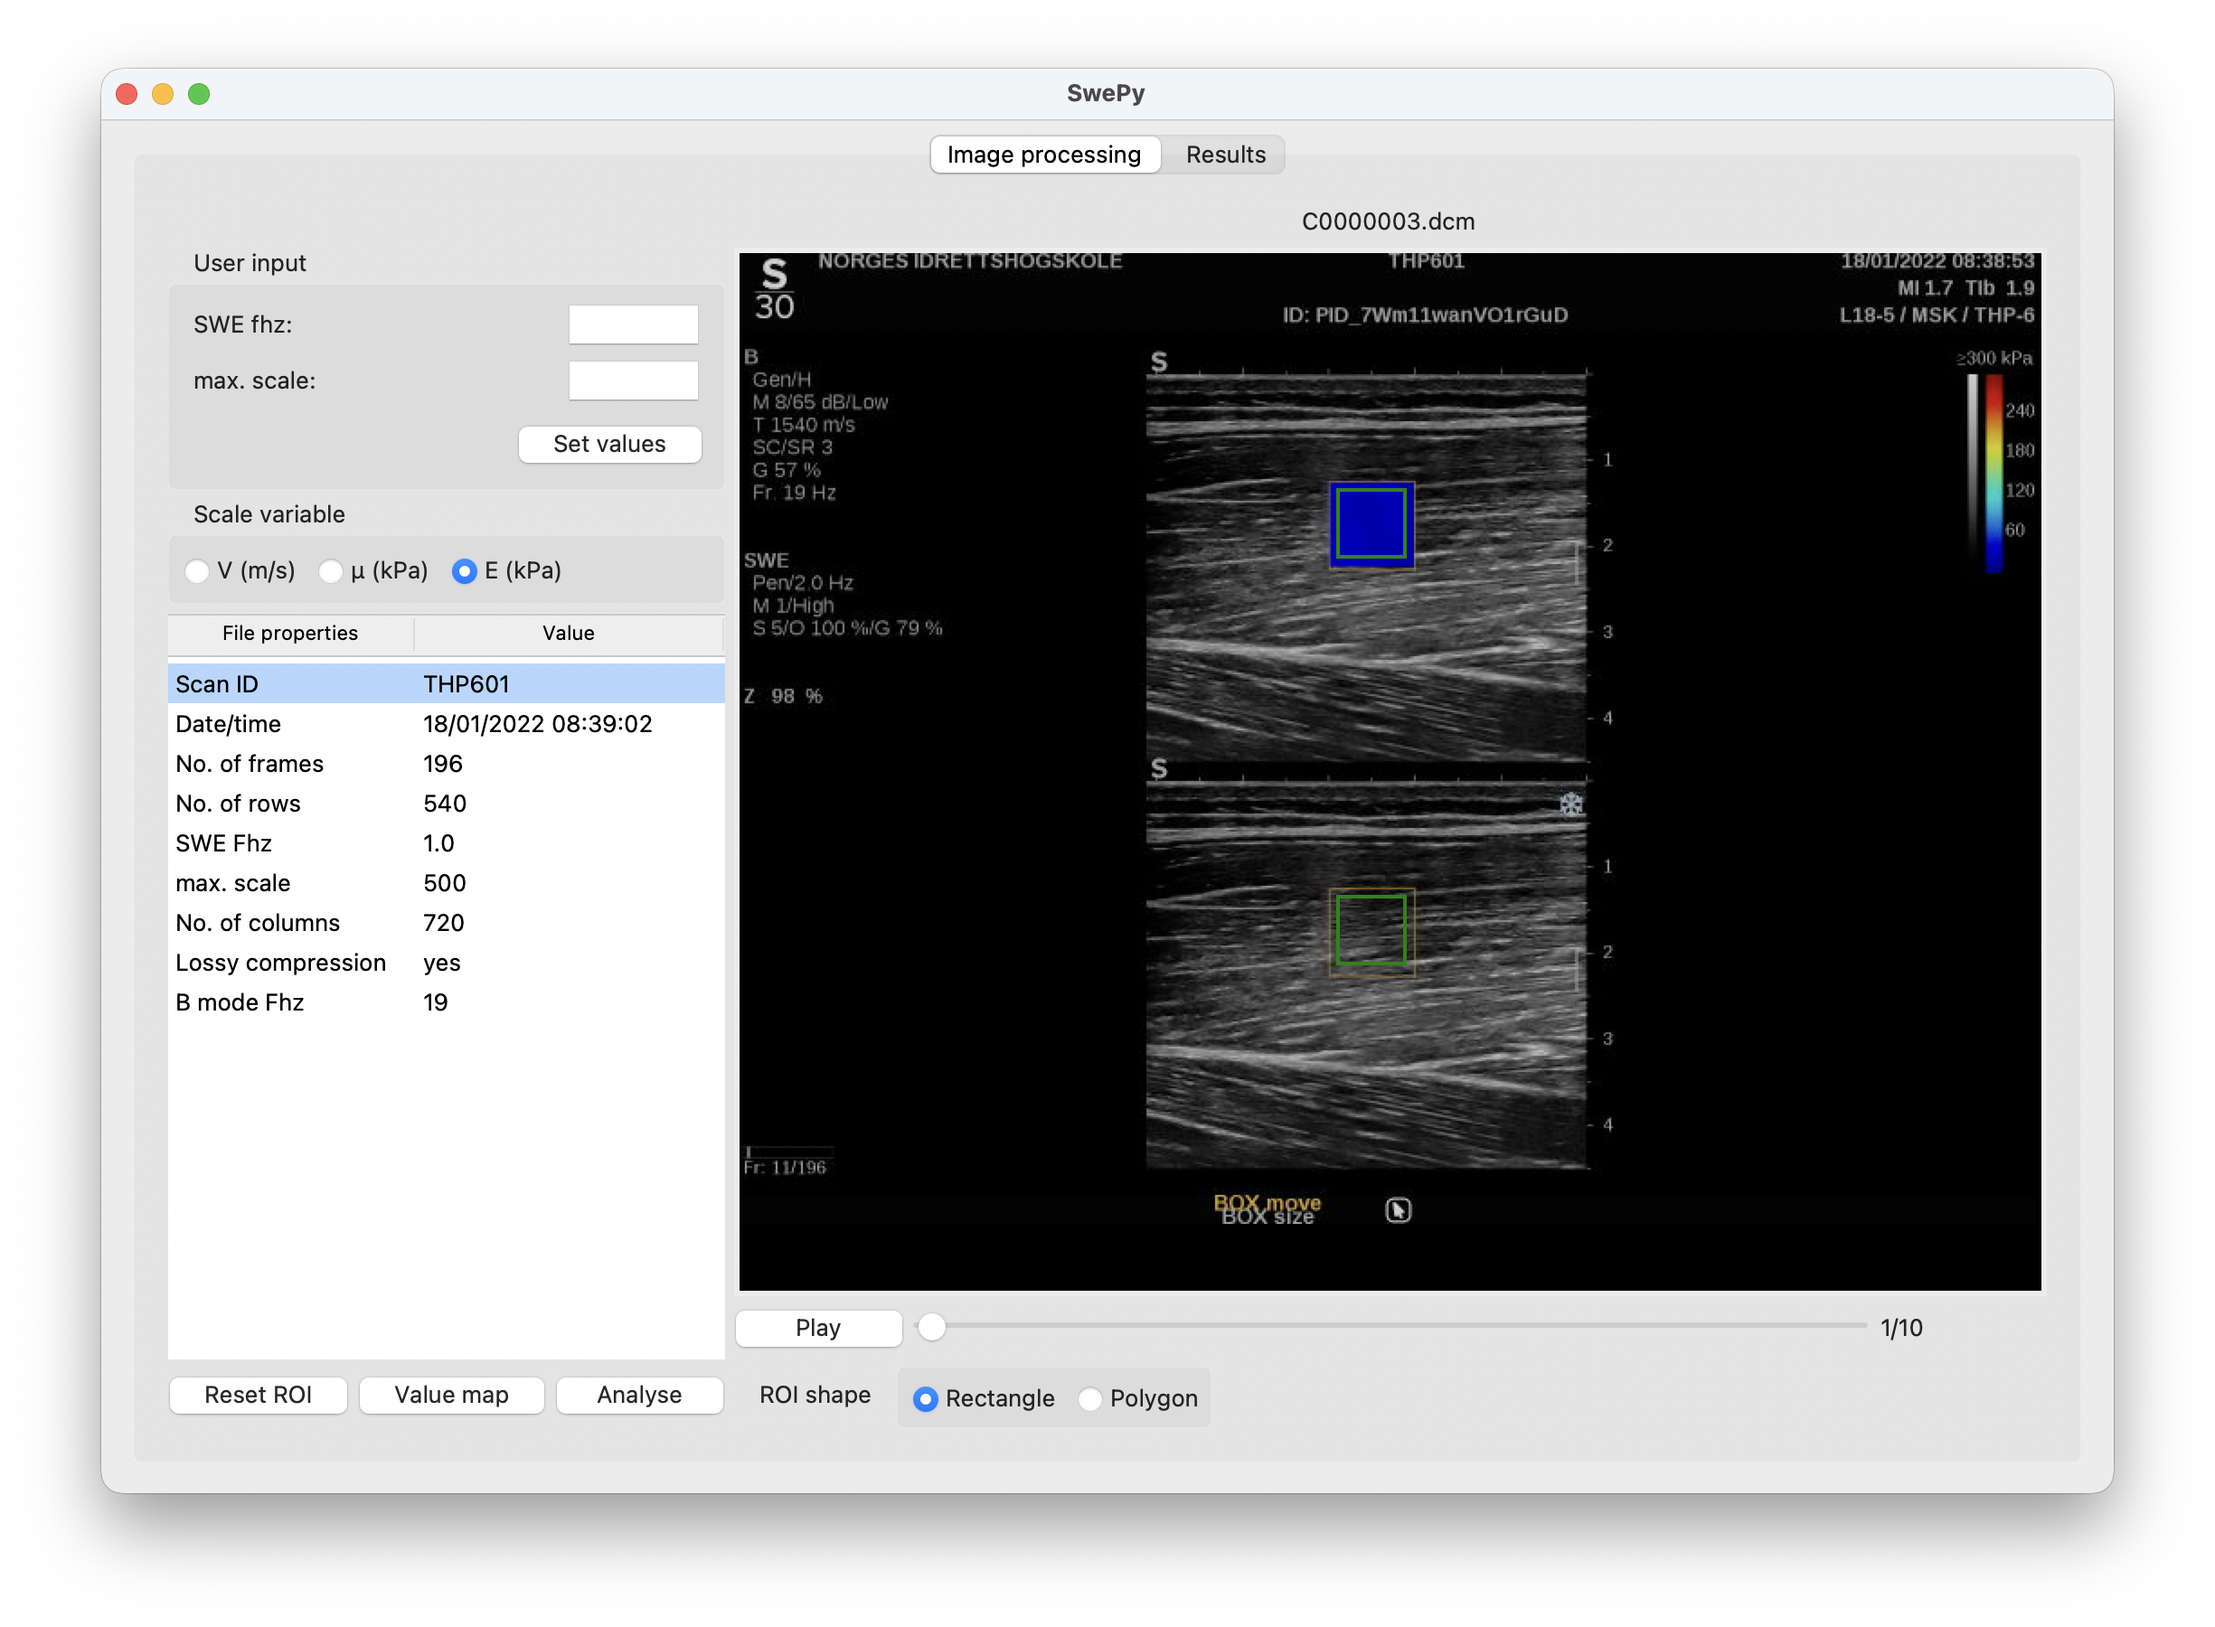
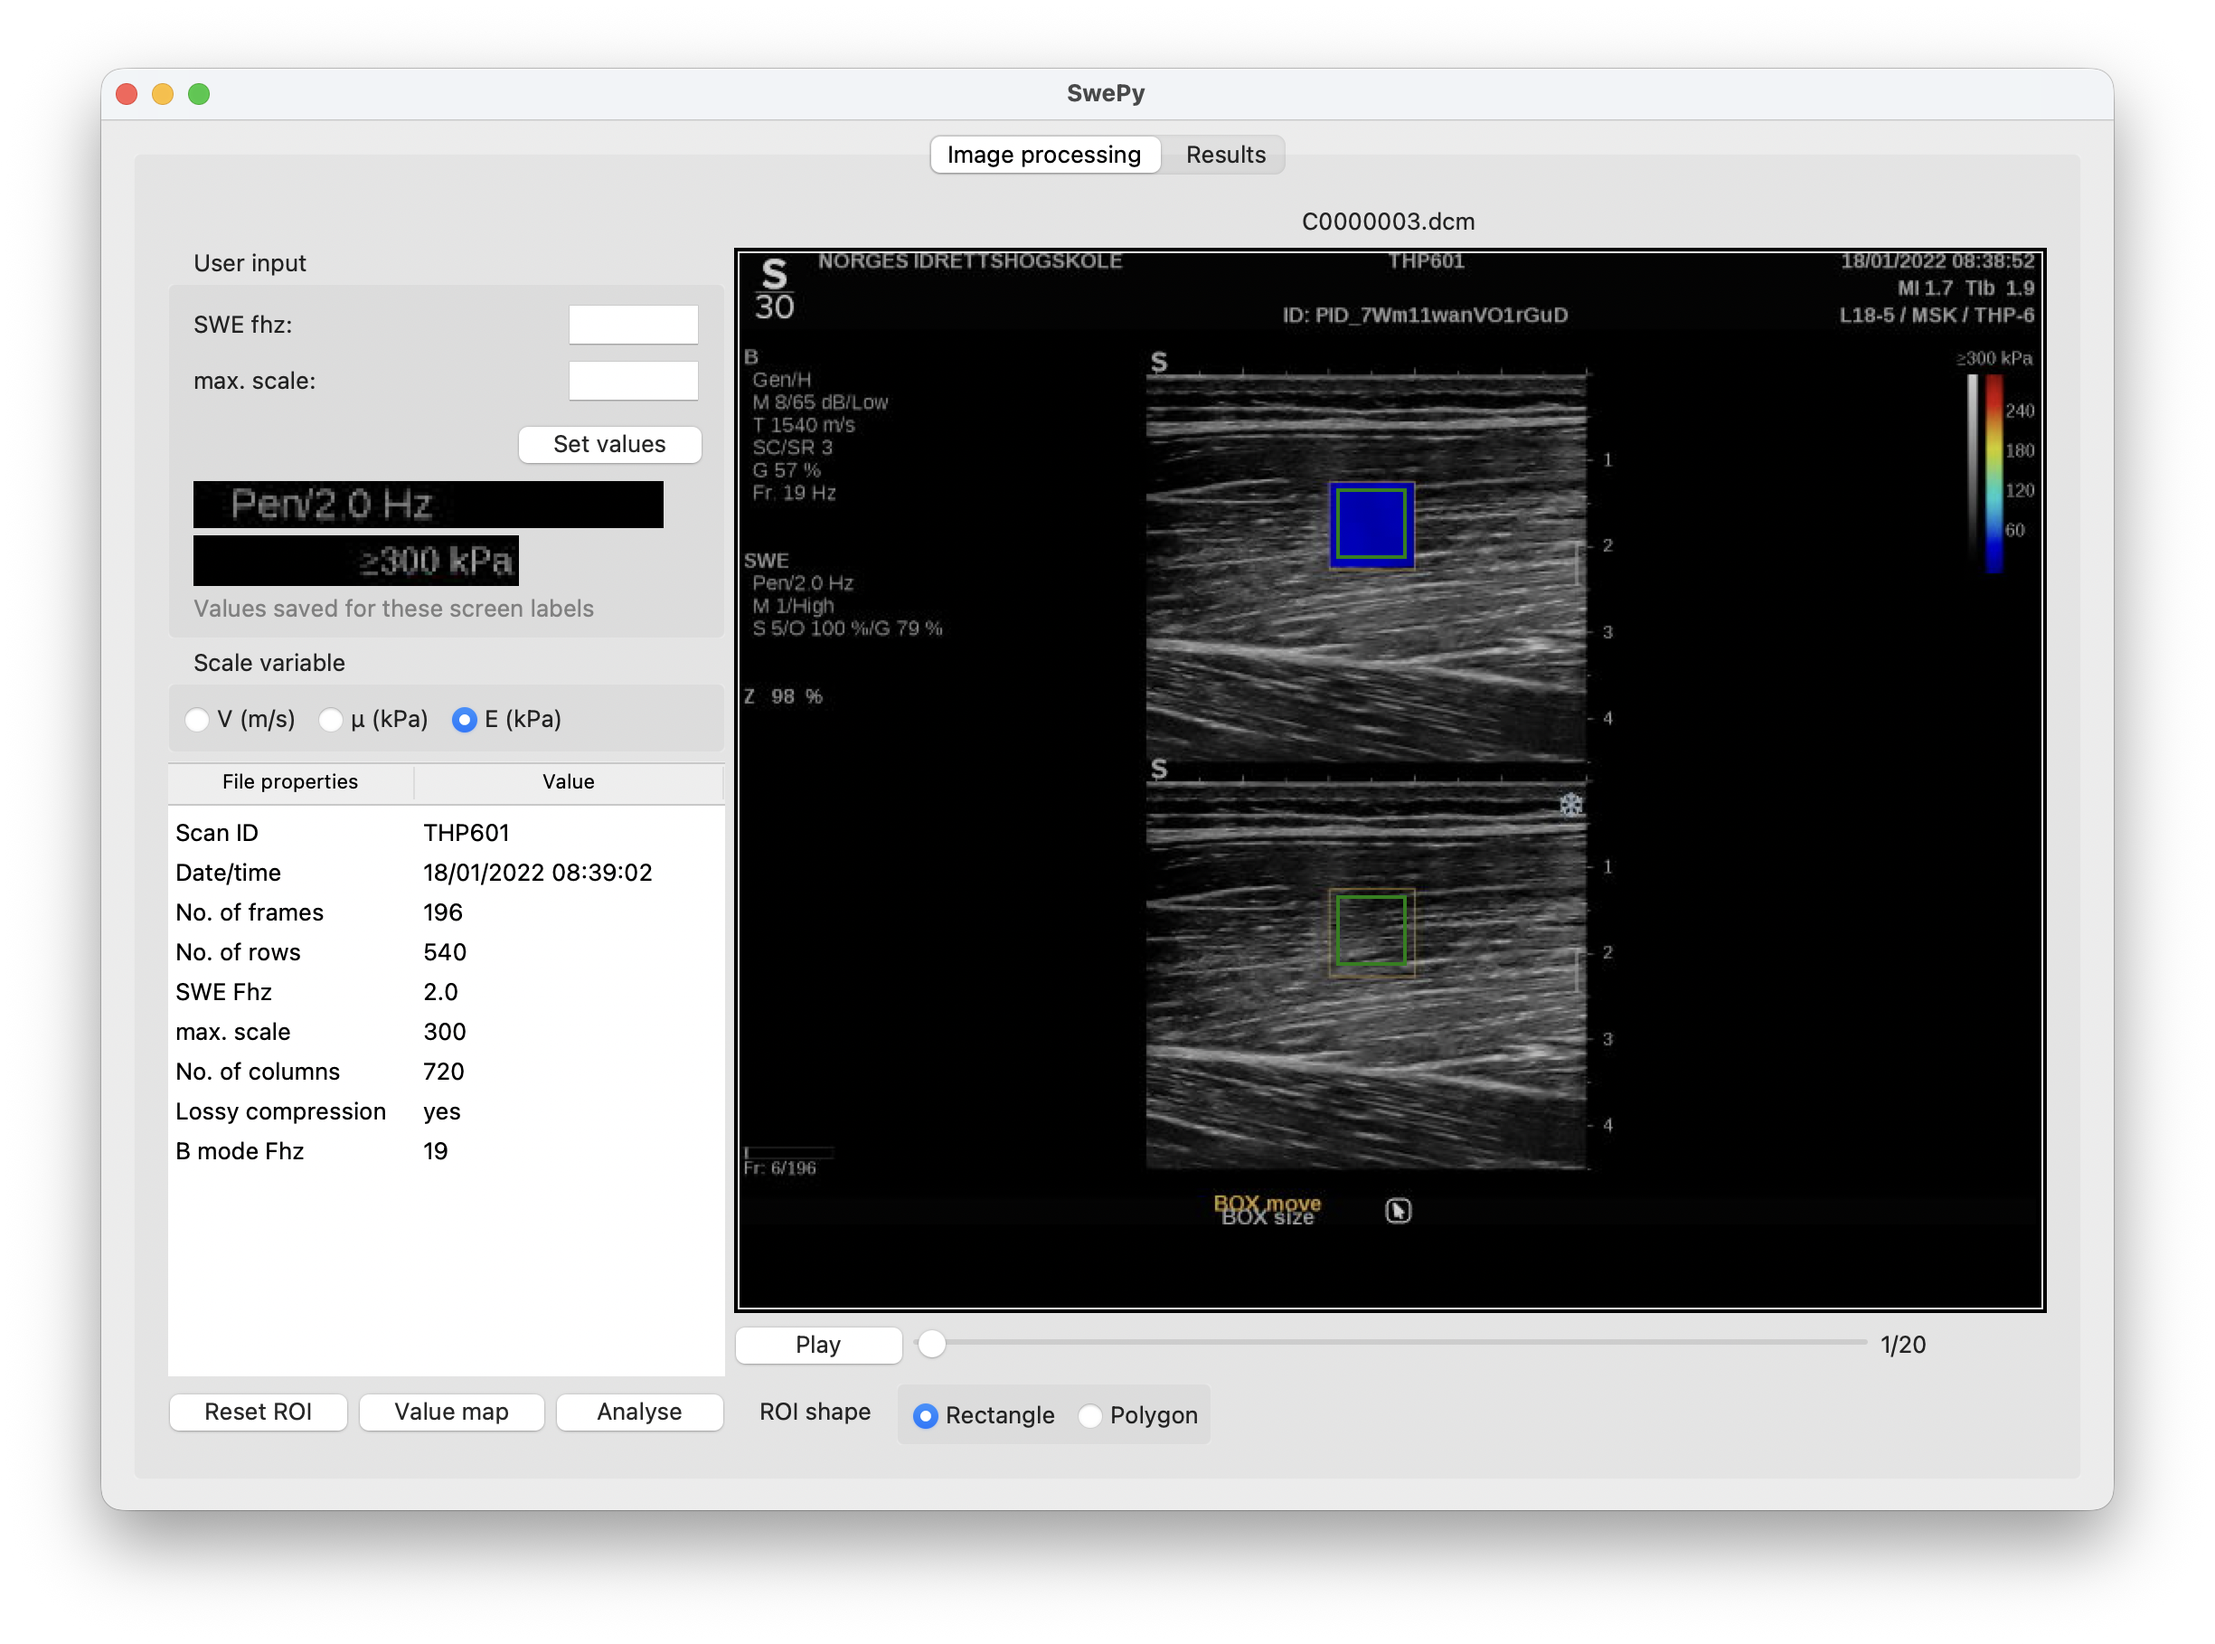
Update README screenshots and documentation
- Recapture the Image processing, Results and value map screenshots with the current interface
  (time-course plot, enlarged screen labels, plot selector)
- Show the scanner label close-ups and the value map at a smaller size
- Add a Value map section describing its purpose
- Update the introduction (time-course plot instead of violin plots), complete the workflow
  (File > Open..., batch opening, ROI adjustment) and move the note on remembered screen labels
  to the workflow

diff --git a/README.md b/README.md
@@ -1,10 +1,11 @@
 ![](./src/logo.001.png)
 
 # Documentation
-Swepy is a basic user interface to load and analyse shear wave elastography files recorded with **Hologic Supersonic** machines.
+swepy is a graphical interface to load and analyse shear wave elastography (SWE) cine loops recorded with **Hologic Supersonic** machines (DICOM files).
 
-The analysis currently consists in a graphical preview of the elastography measurements for each frame (violin plots), and calculations of mean and median values.
-Results can be exported to a `csv` or `xlsx` file.
+It converts the colours of each SWE map back to values (wave velocity, shear modulus and Young's modulus) within a region of interest (ROI),
+summarises each map by its median, filters out poor-quality maps, and plots the results over time.
+Results can be exported to `csv` or `xlsx` files.
 
 
 ## Get started
@@ -50,29 +51,45 @@ With the virtual environment activated, start the application with:
   ```
 
 ### Basic workflow
-1. Load a DICOM file containing an image sequence (generally a video clip, takes a few seconds)
-2. Enter the following parameters found on the image frame, then click **Set values**:
-    - acquisition frequency of SWE frames (`SWE fhz` parameter, e.g. "Pen/1.6 Hz" on screen).
-    - maximal scale value (`max. scale` parameter, e.g. "≥600 kPa" or "≥20.0 m/s" above the colour bar).
+1. Load a DICOM file containing a cine loop with **File > Open...** (loading takes a few seconds).
+   Several files can be selected: they are opened one after another, with the ROI of the first file.
+2. Enter the following parameters, read on the image, then click **Set values**:
+    - acquisition frequency of SWE maps (`SWE fhz`, e.g. "Pen/2.0 Hz" under "SWE" on the left of the screen).
+    - maximal scale value (`max. scale`, e.g. "≥300 kPa" or "≥20.0 m/s" above the colour bar).
     - the variable of the scale (**Scale variable**): **V (m/s)** for a scale in m/s; for a scale in kPa,
       **E (kPa)** if the scanner displays Young's modulus or **μ (kPa)** if it displays shear modulus.
       The Mach30 can display either, and the image only shows "kPa": check the scanner's elasticity setting
       (and record it in your protocol). A wrong choice changes all values by a factor of 3.
 
-|![](./src/sc1.png)|![](./src/sc2.png)|
-|---|---|
+   Enlarged copies of both labels are shown under the entries, to read them easily. swepy remembers the values
+   entered for each label: files showing the same labels are filled in automatically, and new labels must be entered.
 
-![](./src/sc0.png)
+   <p>
+   <img src="./src/sc1.png" alt="SWE frequency label on the scanner screen" width="200">
+   <img src="./src/sc2.png" alt="Maximal scale label above the colour bar" width="200">
+   </p>
 
-3. Click **Value map** to see the decoded values over the whole SWE box, with a depth profile.
-   Stiff structures (aponeuroses, fascia) appear as bright bands: draw the ROI (rectangle or polygon) within the muscle, away from them.
+   ![Image processing tab](./src/sc0.png)
 
-![](./src/value_map.png)
+3. Adjust the ROI on either view (**ROI shape**: rectangle or polygon). A rectangle within the SWE box is suggested; **Reset ROI** restores it.
+4. Optionally, click **Value map** to check the ROI before analysing (see below).
+5. Click **Analyse**.
+6. View and export results from the **Results** tab.
 
-4. Click **Analyse**.
-5. View and export results from the **Results** tab.
+   ![Results tab](./src/sc3.png)
 
-![](./src/sc3.png)
+### Value map
+The colour-coded SWE map is hard to read by eye, especially for values at the bottom of the scale.
+**Value map** shows the values decoded by swepy over the whole SWE box, one SWE map at a time (slider), with the
+current ROI outlined and the median value at each depth (right panel; dashed line: all maps).
+Use it to check where the ROI lies relative to heterogeneities before analysing: stiff structures such as aponeuroses
+or fascia appear as bright bands or peaks in the depth profile, and areas without SWE signal are left blank.
+Draw the ROI within the tissue of interest, away from them.
+In the **Results** tab, **Value map** shows the analysed ROI of each map, with excluded maps labelled, to check unusual values.
+
+<p align="center">
+<img src="./src/value_map.png" alt="Value map window" width="520">
+</p>
 
 ### Results and outputs
 The **main result** of each recording is the **mean of the medians of the included SWE maps**, in the variable
@@ -124,9 +141,6 @@ B-mode image (suggested automatically, or followed from a click on it), and meas
 points clicked along the aponeurosis. Quality descriptors (depth, tilt, distance from the SWE box edge, visibility)
 are exported with the results (`apo_` fields).
 
-swepy also remembers the values entered for the on-screen scale and frequency labels: files showing the same
-labels are filled in automatically, and new labels must be entered.
-
 See the step-by-step guide: [docs/aponeurosis_mode.md](docs/aponeurosis_mode.md).
 
 ### How the analysis works
@@ -166,7 +180,7 @@ Frames of one recording share the same probe placement, so they cannot capture t
   and assess reliability between acquisitions (e.g. ICC, SEM, CV) with **Combine selection...**.
 - During contractions or other changes over time, select maps with an external criterion (e.g. stable force),
   using the `time_s` column to synchronise SWE maps with other recordings.
-- For muscle, the shear modulus or the wave velocity are often preferred to Young's modulus, because E = 3μ assumes an isotropic tissue
+- For muscle, the shear modulus or the wave velocity are often preferred to Young's modulus, because E = 3μ assumes an isotropic tissue.
   Whatever the scanner displays, swepy converts values to all three variables.
 
 ### Notes and limitations
@@ -184,8 +198,8 @@ Frames of one recording share the same probe placement, so they cannot capture t
 - Version 0.2.0 changed the frame selection, the colour bar sampling and the conversion of m/s scales: results can differ from earlier versions, especially for scales in m/s and for soft tissue measured with a large scale.
 - Version 0.3.0 decodes colours between colour bar rows (see "How the analysis works"): results change little for tissue mid-scale
   (< 2 % in our tests) but can change more for tissue at the bottom of the scale.
-- The script works with **DICOM files** and is optimised for Mach30 machines but should work with other machines from the Mach range.
-Scans from Aixplorer machines also seem to be compatible but have not yet been tested thoroughly.
+- swepy works with **DICOM files** and is optimised for Mach30 machines but should work with other machines from the Mach range.
+  Scans from Aixplorer machines also seem to be compatible but have not yet been tested thoroughly.
 
 ## Acknowledgements
 I am grateful to Neil Cronin (University of Jyväskylä) for his input early in the project.  
